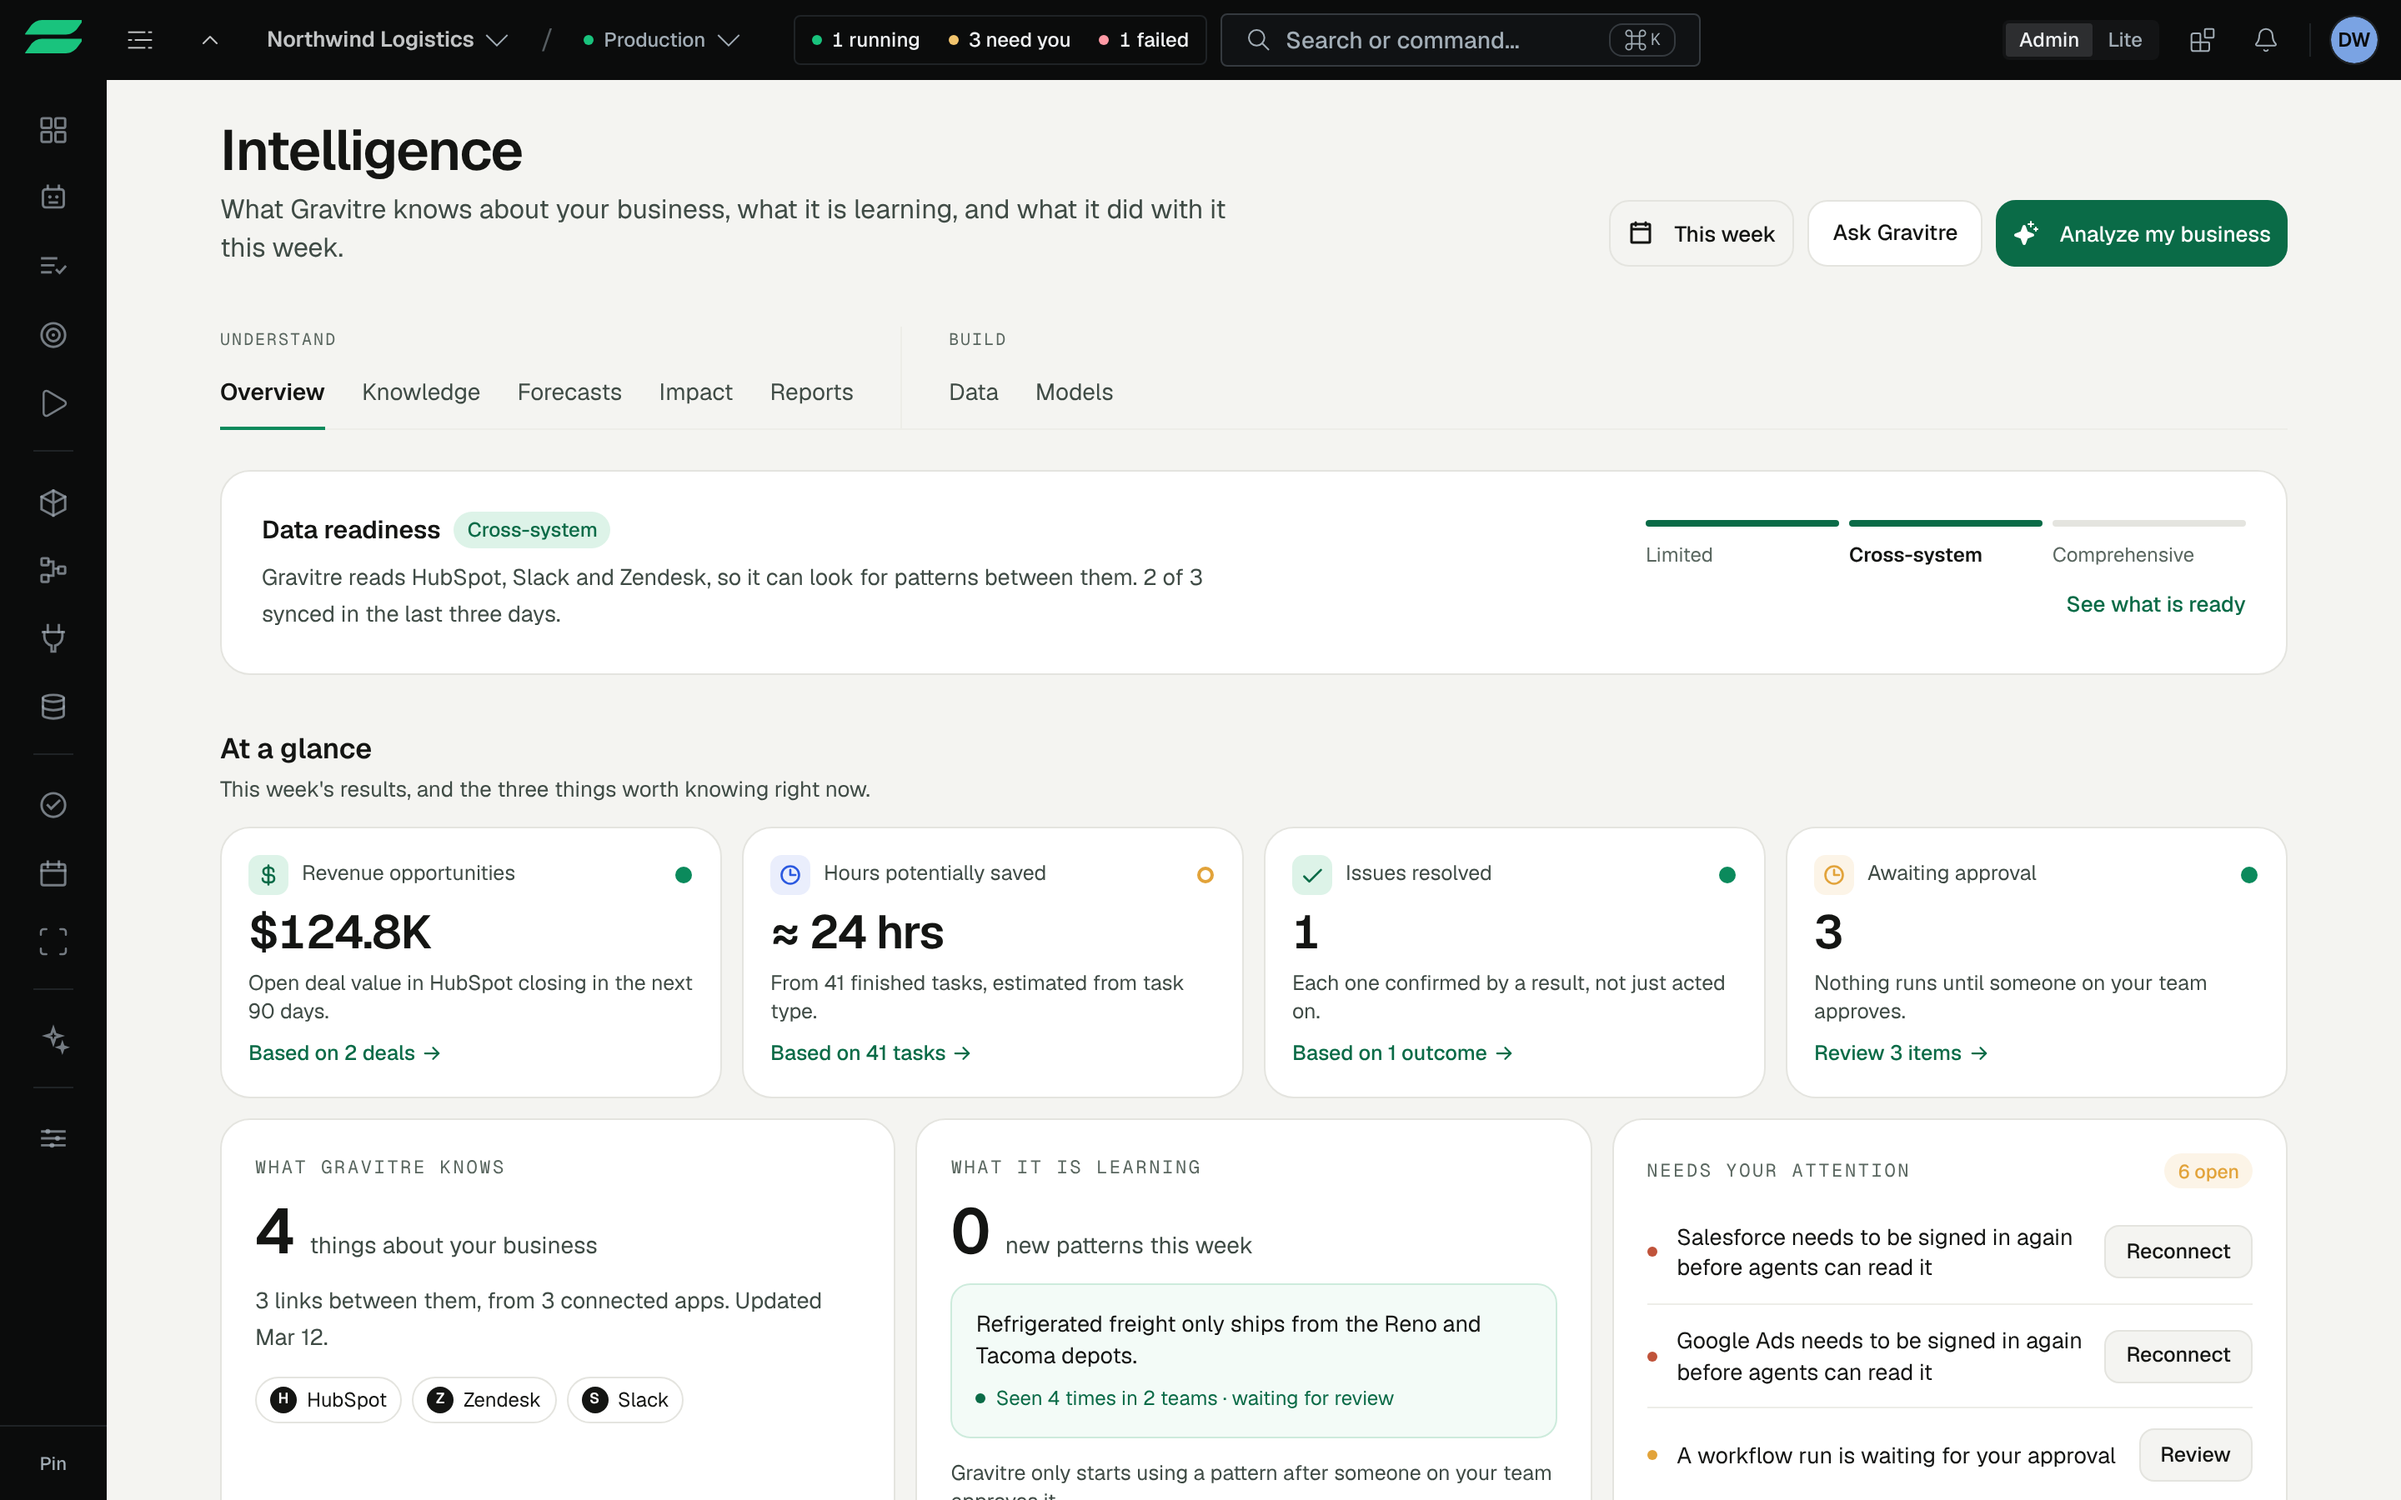
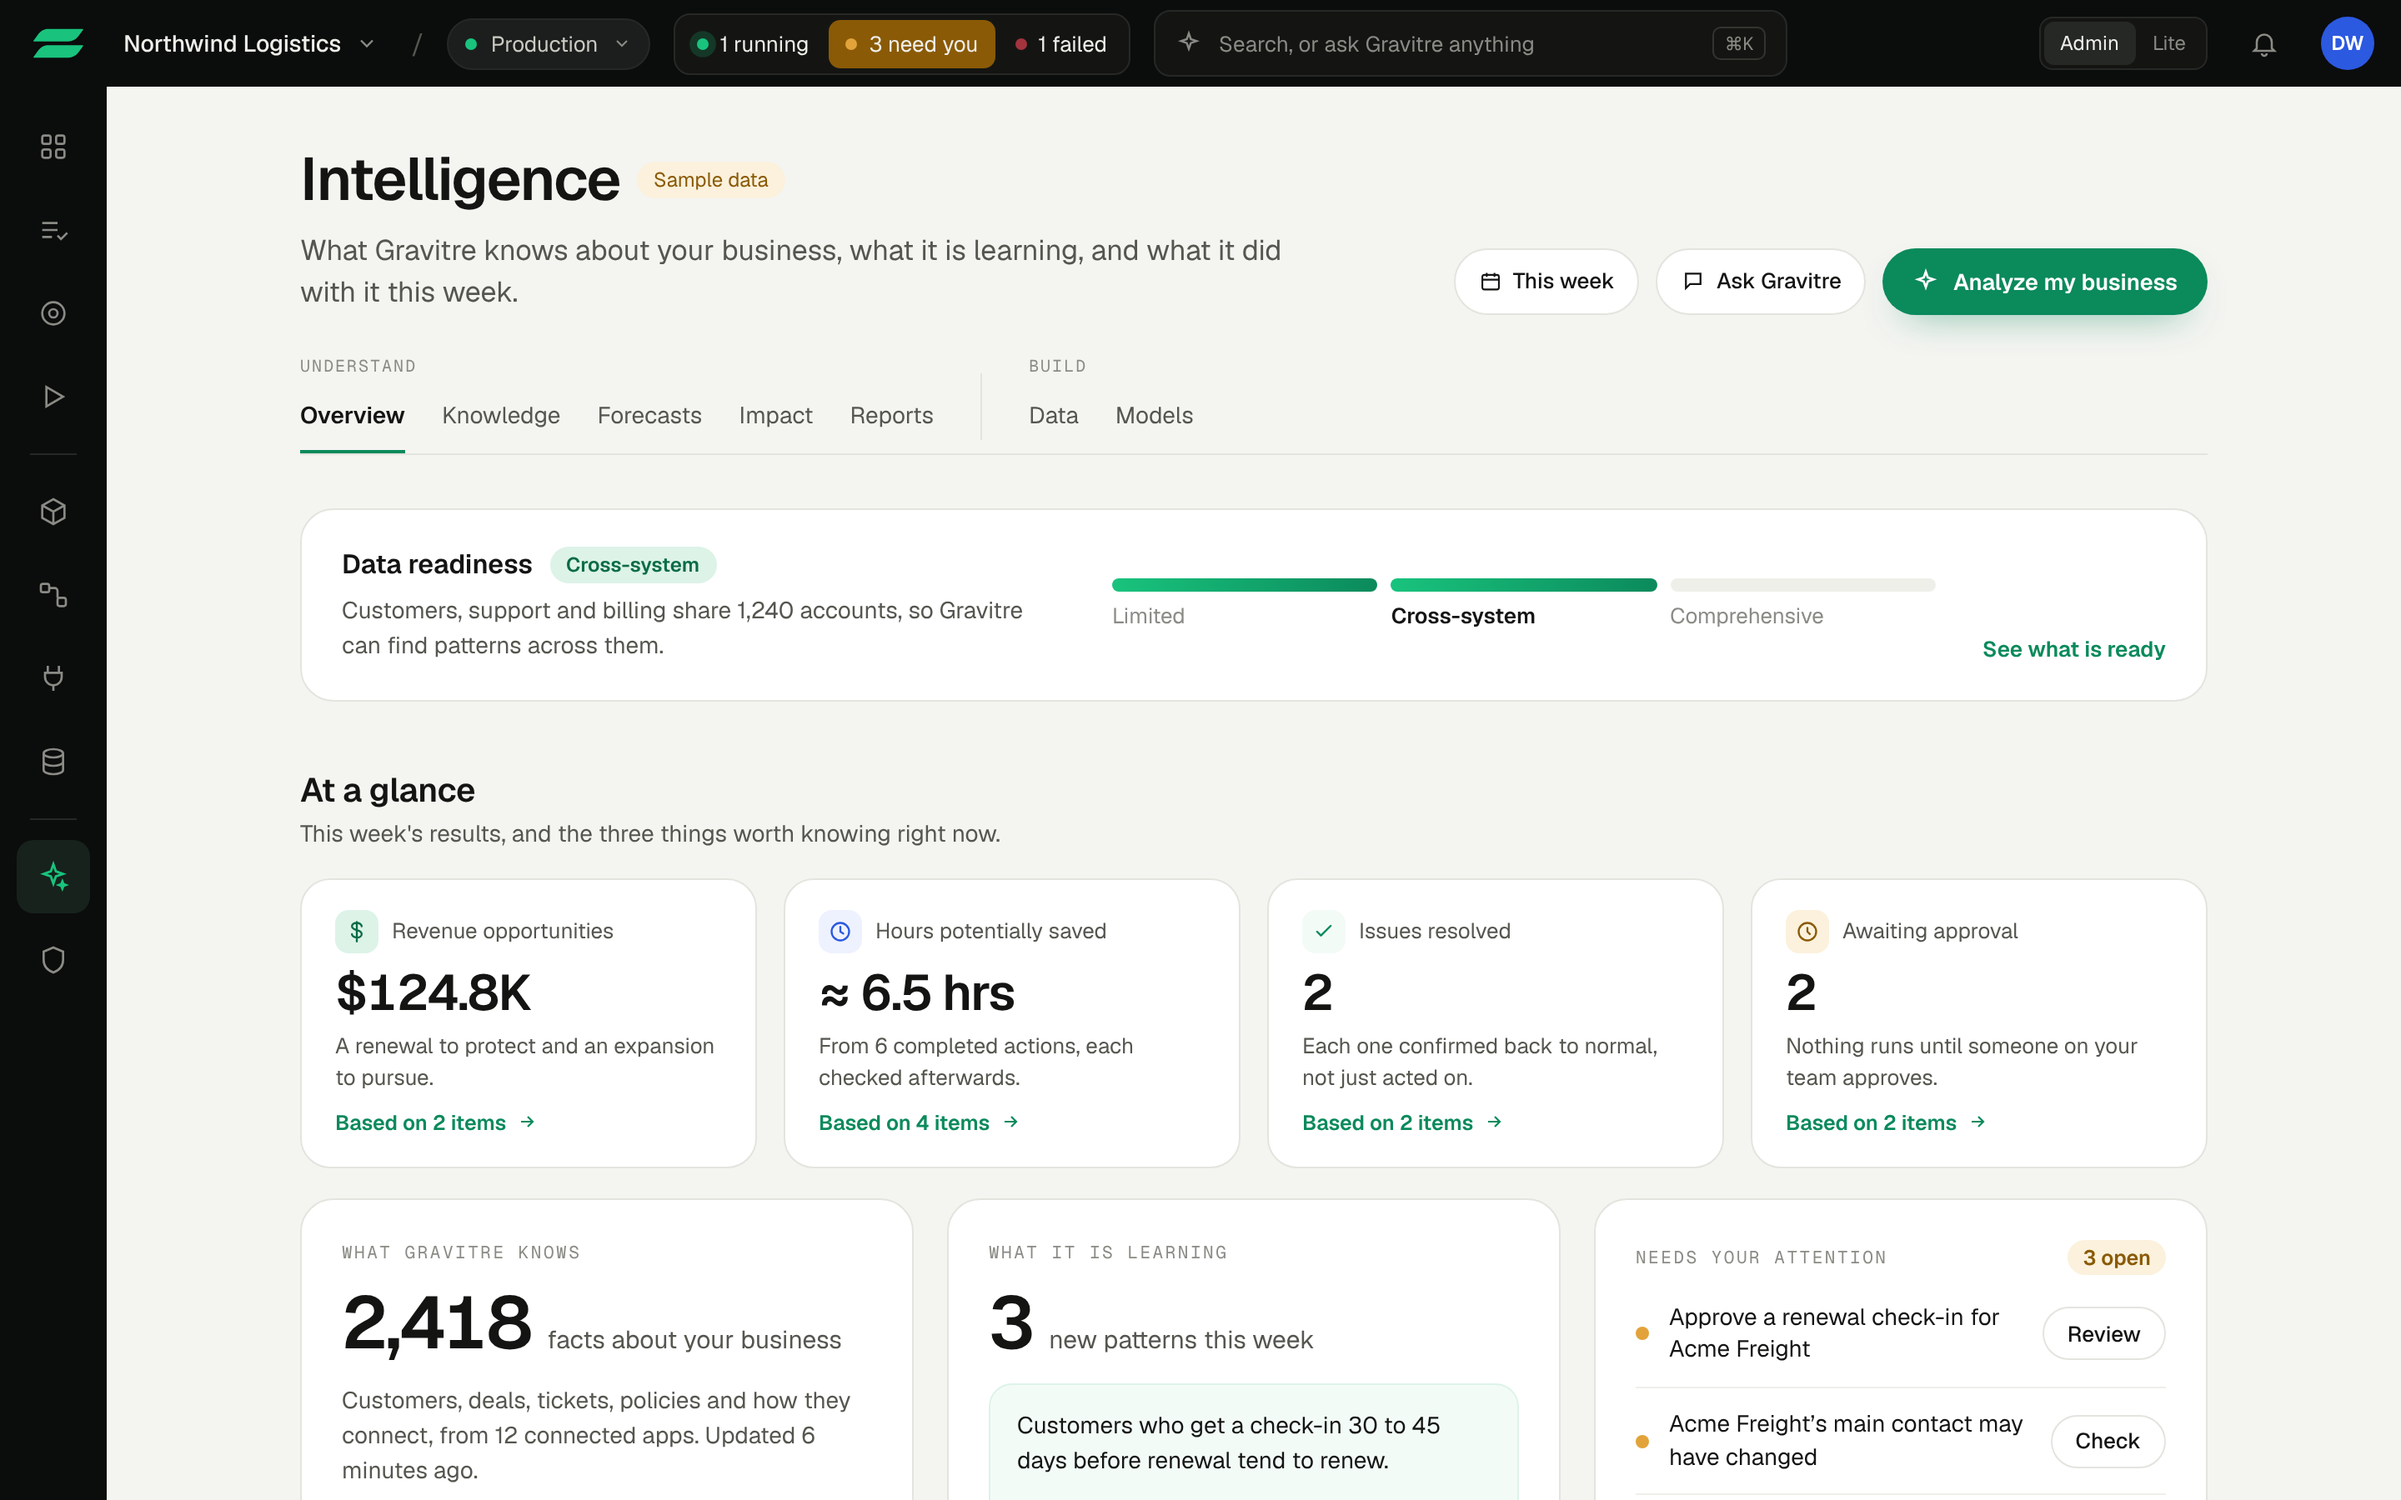
Marketing: Intelligence overview from the design file, dot field on Download
The Technology Intelligence layer screenshot is now rendered from Cesar's
Intelligence Overview design, and the Download page's desktop preview
sits on the Nodus dot field instead of the green glow.

Claude-Session: https://claude.ai/code/session_01XzMELQLTnafTGZHyK3LxYt

diff --git a/apps/web/components/marketing/desktop-companion-preview.tsx b/apps/web/components/marketing/desktop-companion-preview.tsx
@@ -4,6 +4,7 @@ import { motion, useScroll, useTransform } from "framer-motion"
 import Image from "next/image"
 import { Keyboard, Shield } from "lucide-react"
 import { useRef } from "react"
+import { NodusDotField } from "@/components/marketing/nodus/dot-field"
 
 /**
  * Desktop companion window for the download page: a real capture of the
@@ -20,7 +21,7 @@ export function DesktopCompanionPreview() {
 
   return (
     <motion.div ref={ref} style={{ y, opacity }} className="relative mx-auto max-w-4xl">
-      <div className="pointer-events-none absolute -inset-6 rounded-[2rem] bg-gradient-to-b from-[color:var(--g-emerald)]/20 via-transparent to-transparent blur-2xl" />
+      <NodusDotField className="-inset-x-24 -inset-y-12" />
 
       {/* Floating accent chips */}
       <motion.div
